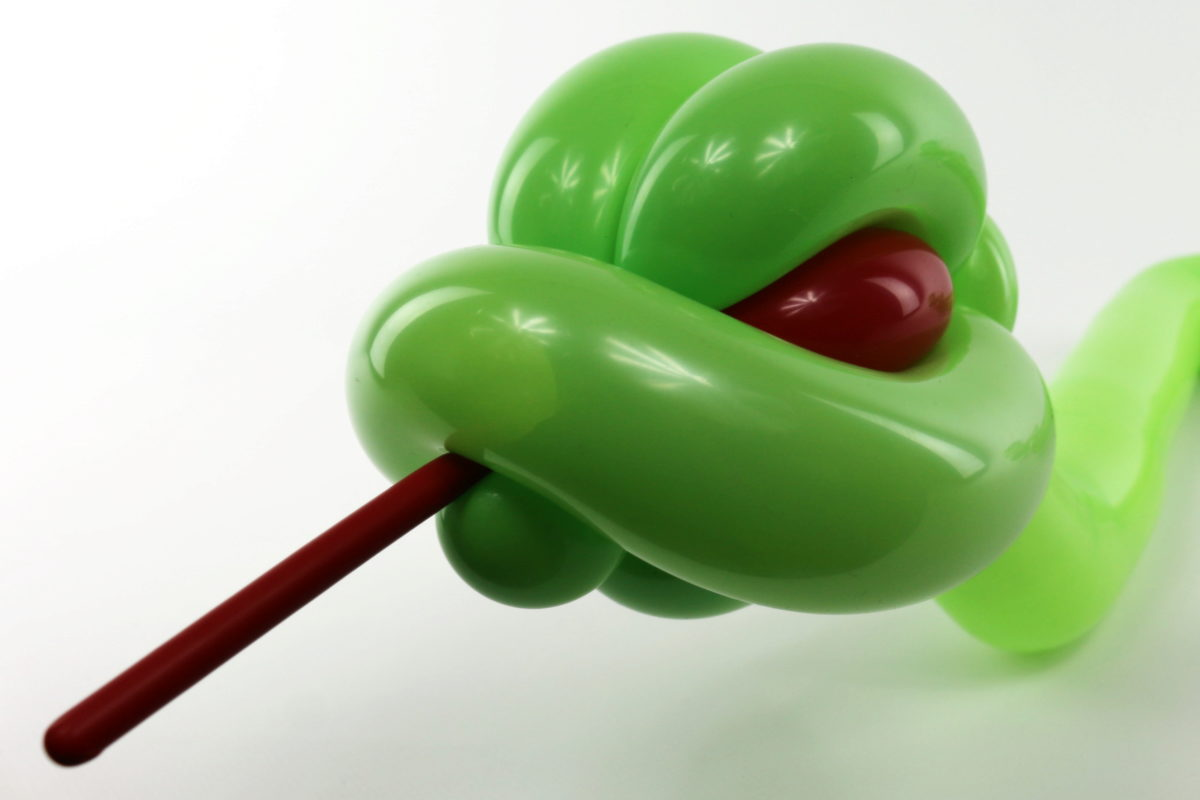
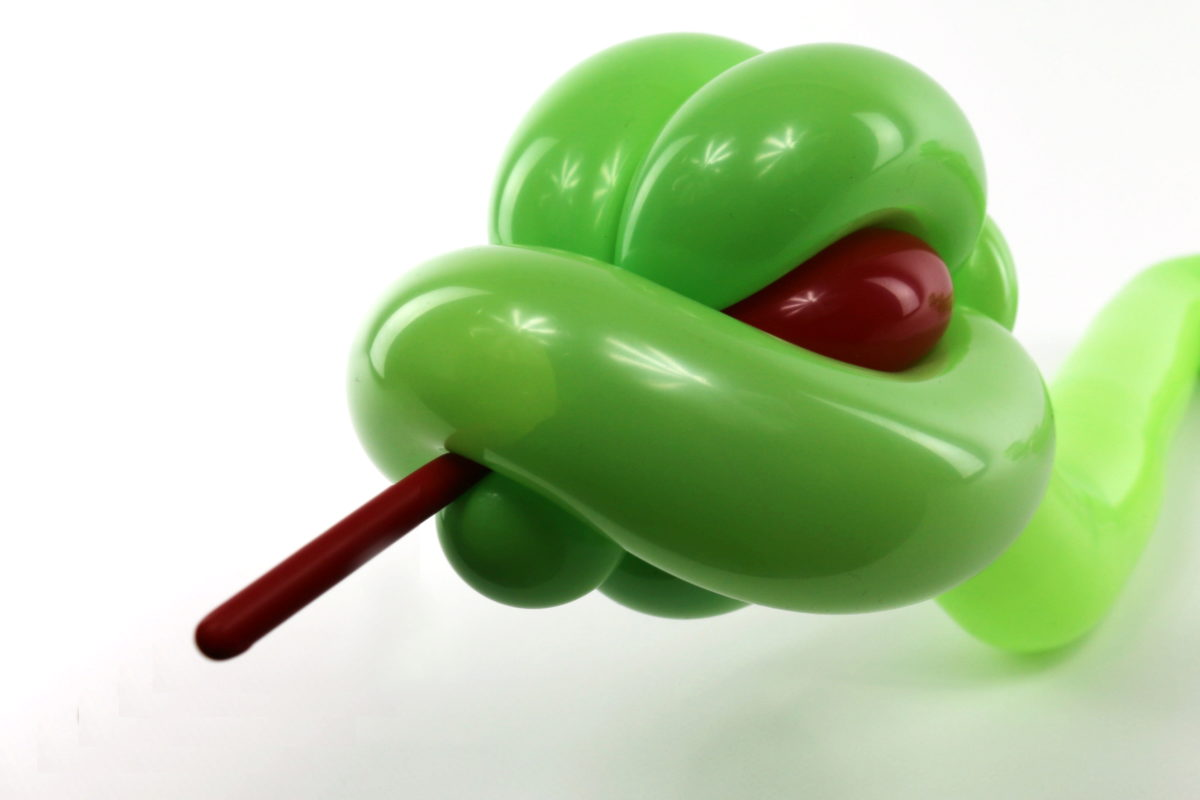
Corrected some Typos, changed main pix

diff --git a/snake/snake-fr.html b/snake/snake-fr.html
@@ -17,7 +17,7 @@
 		</aside>
 		<p><strong>Matériel :</strong></p>
 		<ul>
-			<li>1 ballon à sculpter</li>
+			<li>3 ballons à sculpter</li>
 			<li>1 pompe</li>
 		</ul>
 		<p>
@@ -29,8 +29,8 @@
 		<br>
 	</header>
 	<main>
-		<p>Ce tutoriel photo est un outil d'accompagnement à la vidéo <a href="http://www.mossieur-ballon.com/fr/tutoriels/initiation-a-la-sculpture-sur-ballon-19-le-serpent">Initiation à la sculpture sur ballon 1 9 - Le serpent</a> que vous pouvez également retrouver sur la <a href="https://www.youtube.com/user/MossieurBallon">chaîne YouTube de Môssieur Ballon</a>.</p>
-		<p>Ce serpent en ballon d'aspect réaliste sera très populaire. Il est pourtant assez simple à réaliser rapidement même quand il y a une queue d'enfants qui attend.</p>
+		<p>Ce tutoriel photo est un outil d'accompagnement à la vidéo <a href="http://www.mossieur-ballon.com/fr/tutoriels/initiation-a-la-sculpture-sur-ballon-19-le-serpent">Initiation à la sculpture sur ballon 19 - Le serpent</a> que vous pouvez également retrouver sur la <a href="https://www.youtube.com/user/MossieurBallon">chaîne YouTube de Môssieur Ballon</a>.</p>
+		<p>Ce serpent en ballon d'aspect réaliste sera très populaire. Il est pourtant assez simple à réaliser rapidement même quand il y a une queue d'enfants qui attendent.</p>
 		<p>Cependant avant de vous essayer à la réalisation de ce modèle, il est primordial d'avoir déjà acquis la plupart des bases de la sculpture sur ballon, comme par exemple la confection de bulle oreilles, d'angles, etc.</p>
 		<p>Voici une liste de tutoriels pour réviser et perfectionner toutes les techniques de bases qui pourraient vous être utiles pour réaliser ce modèle avec succès.</p>
 		<ul>

diff --git a/snake/snake-en.html b/snake/snake-en.html
@@ -20,7 +20,7 @@
 		</aside>
 		<p><strong>Equipment:</strong>
 		<ul>
-			<li>1 modeling balloon</li>
+			<li>3 modeling balloons</li>
 			<li>1 pump</li>
 		</ul>
 		</p>
@@ -285,7 +285,7 @@
 		<section>
 			<figure>
 				<img src="images/step49.jpg">
-				<figcaption>49- For the body of the snake we simply have to make a series of zigzags (again, refer to the "<a href="http://www.mossieur-ballon.com/tutorials/balloon-twisting-from-scratch-9-skill-4-make-angles-with-balloons">Make Angles With Balloons</a>" tutorial if necessary). .</figcaption>
+				<figcaption>49- For the body of the snake we simply have to make a series of zigzags (again, refer to the "<a href="http://www.mossieur-ballon.com/tutorials/balloon-twisting-from-scratch-9-skill-4-make-angles-with-balloons">Make Angles With Balloons</a>" tutorial if necessary).</figcaption>
 			</figure>
 			<figure>
 				<img src="images/step50.jpg">
